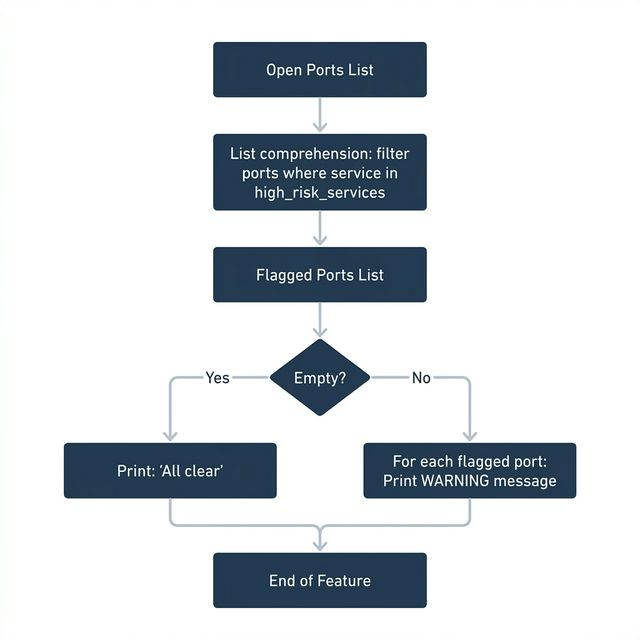
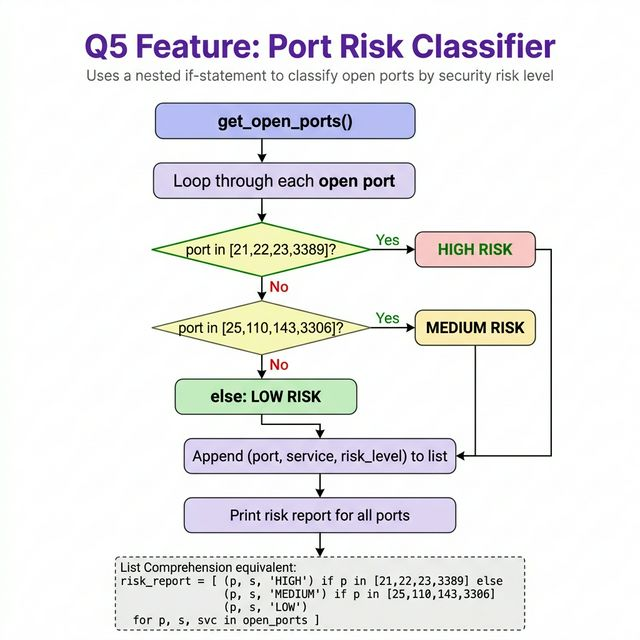
update Q5 comment and diagram to match port risk classifier

diff --git a/assignment2_101549617.py b/assignment2_101549617.py
@@ -207,8 +207,15 @@ if __name__ == "__main__":
 
 
 # Q5: New Feature Proposal
-# A useful addition would be a "port risk flagging" feature that scans results and highlights
-# ports considered high-risk (e.g. Telnet on 23, RDP on 3389). It would use a list comprehension
-# to filter open ports whose service name appears in a predefined high_risk_services list, then
-# print a warning for each flagged port. This gives users an instant security summary after every scan.
+# A useful addition would be a "port risk classifier" feature that loops through the open ports
+# returned by get_open_ports() and classifies each one by security risk level. Ports in
+# [21, 22, 23, 3389] are flagged as HIGH RISK, ports in [25, 110, 143, 3306] as MEDIUM RISK,
+# and all others as LOW RISK. It uses a nested conditional list comprehension:
+# risk_report = [
+#     (p, s, "HIGH") if p in [21,22,23,3389]
+#     else (p, s, "MEDIUM") if p in [25,110,143,3306]
+#     else (p, s, "LOW")
+#     for p, s, svc in open_ports
+# ]
+# The result is a risk report printed after every scan, giving users an instant security summary.
 # Diagram: See diagram_101549617.png in the repository root
